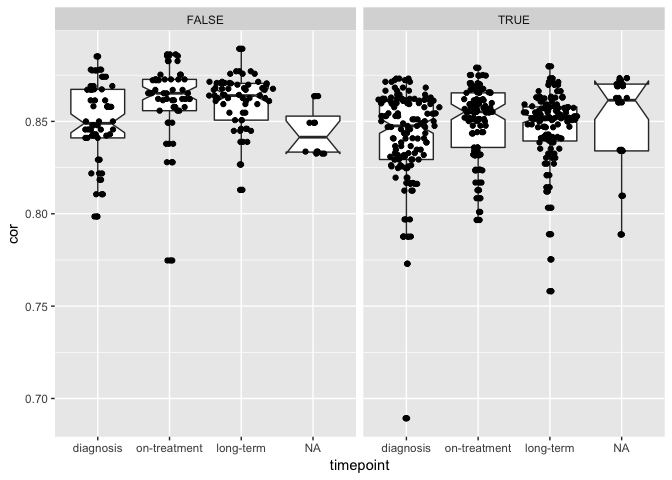
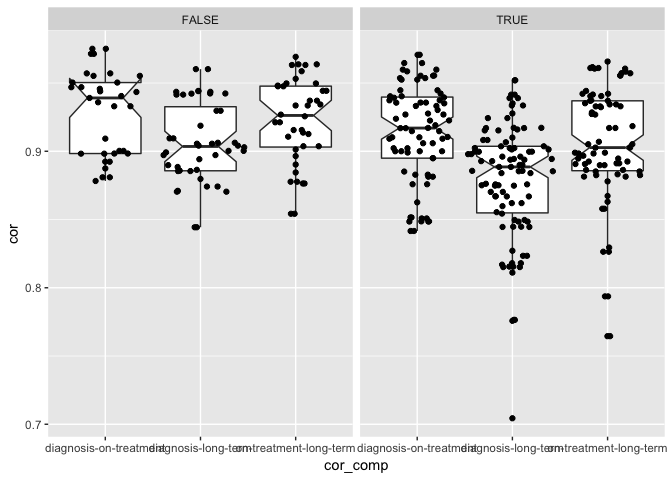
paired update for timepoint-correlations

diff --git a/combined/doc/timepoint-correlations.md b/combined/doc/timepoint-correlations.md
@@ -6,15 +6,22 @@ Dominic Pearce
 library(tidyverse)
 library(Biobase)
 library(ggforce)
+source("/Volumes/igmm/sims-lab/Dominic/functions/mostVar.R")
 ```
 
 ``` r
 dormset <- read_rds("../output/dormset.rds")
+
+#dormset$is_dormant <- sapply(dormset$patient, function(x)
+#       ifelse(x == 347, FALSE, dormset$is_dormant[dormset$patient == x])
+#       )
 ```
 
 #### Here we're going to characterise our patients based on the sampling timepoints - *diagnostic*, *on-treatment* and *long-term* - where we would anticipate desensitised patients to exhibit decreasing correlation at later timepoints, and vice versa for dormant patients.
 
 #### We can also extend this categorical comparison to simply compare correlation vs. time on treatment.
+
+#### All correlations are per-sample and are calculated in a paired manner for each patient.
 
 ``` r
 corArrange <- function(eset){
@@ -28,22 +35,44 @@ corArrange <- function(eset){
 
 corByStatus <- function(eset){
     lapply(c(TRUE, FALSE), function(logical){
-               corArrange(dormset[, which(dormset$is_dormant == logical)])
-}) %>% do.call(rbind, .)
+               statusset <- eset[, which(eset$is_dormant == logical)]
+               lapply(unique(statusset$patient), function(patient){
+                          patientset <- statusset[, which(statusset$patient == patient)]
+                          corArrange(patientset)
+               }) %>% do.call(rbind, .)
+    }) %>% do.call(rbind, .)
 }
-
-all_cor <- corByStatus(dormset)
 ```
 
 #### Intra-status correlations
 
 ``` r
+all_cor <- corByStatus(dormset)
+
 ggplot(all_cor, aes(x = is_dormant, y = cor)) + 
     geom_boxplot(outlier.size = 0, notch = TRUE) + 
     geom_sina()
 ```
 
 <img src="timepoint-correlations_files/figure-markdown_github-ascii_identifiers/unnamed-chunk-5-1.png" style="display: block; margin: auto;" />
+
+``` r
+ggplot(all_cor, aes(x = is_dormant, y = cor)) + 
+    geom_boxplot(outlier.size = 0, notch = TRUE) + 
+    geom_sina() + 
+    facet_wrap(~timepoint, nrow = 1)
+```
+
+<img src="timepoint-correlations_files/figure-markdown_github-ascii_identifiers/unnamed-chunk-5-2.png" style="display: block; margin: auto;" />
+
+``` r
+ggplot(all_cor, aes(x = timepoint, y = cor)) + 
+    geom_boxplot(outlier.size = 0, notch = TRUE) + 
+    geom_sina() + 
+    facet_wrap(~is_dormant)
+```
+
+<img src="timepoint-correlations_files/figure-markdown_github-ascii_identifiers/unnamed-chunk-5-3.png" style="display: block; margin: auto;" />
 
 #### Intra-status correlations over time
 
@@ -55,21 +84,43 @@ ggplot(all_cor, aes(x = days_treated, y = cor, colour = is_dormant)) +
 
 <img src="timepoint-correlations_files/figure-markdown_github-ascii_identifiers/unnamed-chunk-6-1.png" style="display: block; margin: auto;" />
 
+``` r
+ggplot(all_cor, aes(x = days_treated, y = cor, colour = is_dormant)) + 
+    geom_point() + 
+    geom_smooth() +
+    xlim(0, 500)
+```
+
+<img src="timepoint-correlations_files/figure-markdown_github-ascii_identifiers/unnamed-chunk-6-2.png" style="display: block; margin: auto;" />
+
 #### Intra-status & intra-timepoint correlations
 
 ``` r
 timepoint_cor <- lapply(c("diagnosis", "on-treatment", "long-term"), function(timepoint){
-                            corByStatus(dormset[, which(dormset$timepoint == timepoint)])
+                            dfr <- corByStatus(dormset[, which(dormset$timepoint != timepoint)])
+                            dfr$cor_comp <- factor(paste0(unique(dfr$timepoint), collapse = "-"),
+                                                   levels = c("diagnosis-on-treatment", 
+                                                              "diagnosis-long-term",
+                                                              "on-treatment-long-term"))
+                            dfr
 }) %>% do.call(rbind, .)
 
-ggplot(timepoint_cor, aes(x = timepoint, y = cor)) + 
+ggplot(timepoint_cor, aes(x = cor_comp, y = cor)) + 
     geom_boxplot(outlier.size = 0, notch = TRUE) +
-#    geom_jitter(width = 0.2) +
     geom_sina() +
     facet_wrap(~is_dormant, nrow = 1)
 ```
 
 <img src="timepoint-correlations_files/figure-markdown_github-ascii_identifiers/unnamed-chunk-7-1.png" style="display: block; margin: auto;" />
+
+``` r
+ggplot(timepoint_cor, aes(x = is_dormant, y = cor)) + 
+    geom_boxplot(outlier.size = 0, notch = TRUE) +
+    geom_sina() +
+    facet_wrap(~cor_comp, nrow = 1)
+```
+
+<img src="timepoint-correlations_files/figure-markdown_github-ascii_identifiers/unnamed-chunk-7-2.png" style="display: block; margin: auto;" />
 
 #### Intra-status & intra-timepoint correlations
 
@@ -80,6 +131,15 @@ ggplot(timepoint_cor, aes(x = days_treated, y = cor, colour = is_dormant)) +
 ```
 
 <img src="timepoint-correlations_files/figure-markdown_github-ascii_identifiers/unnamed-chunk-8-1.png" style="display: block; margin: auto;" />
+
+``` r
+ggplot(timepoint_cor, aes(x = days_treated, y = cor, colour = is_dormant)) +
+    geom_point() +
+    geom_smooth() +
+    xlim(0, 500)
+```
+
+<img src="timepoint-correlations_files/figure-markdown_github-ascii_identifiers/unnamed-chunk-8-2.png" style="display: block; margin: auto;" />
 
 #### Check that dormancy status is correct...
 
